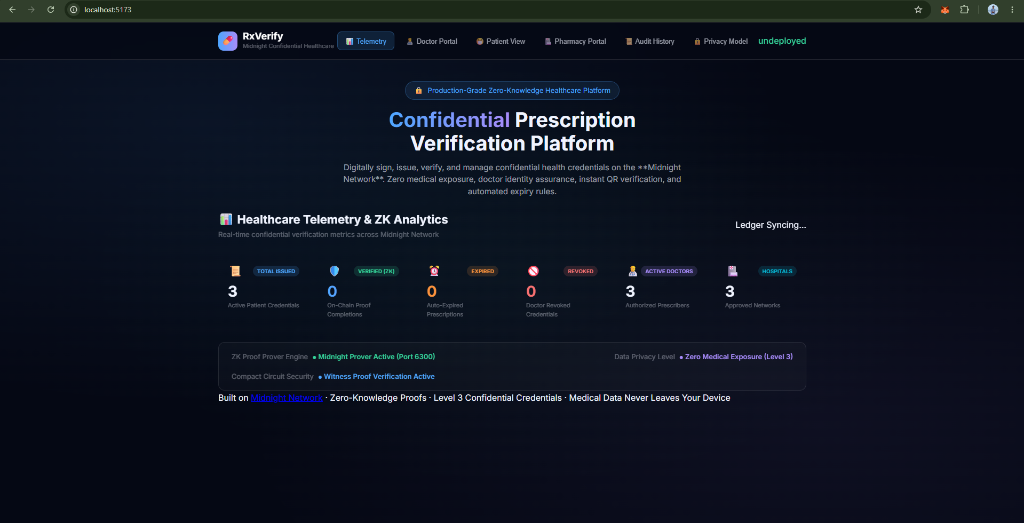
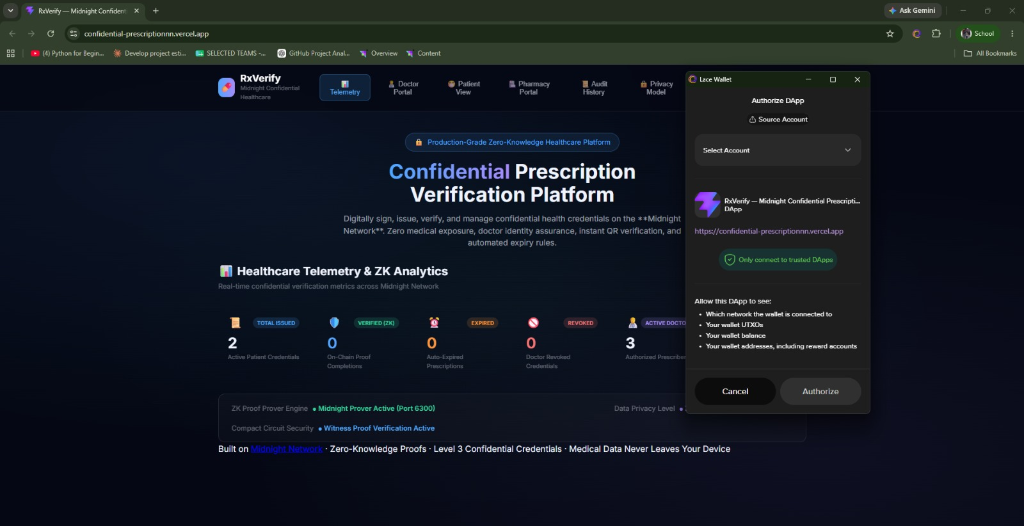
docs: update landing page screenshot with authentic Lace Wallet authorization popup

Changed region(s): [[0.0, 0.0, 1.0, 0.8872]]

diff --git a/README.md b/README.md
@@ -25,7 +25,7 @@
 
 ### Landing Dashboard
 ![RxVerify Landing Page](docs/images/landing-page.png)
-*Landing Dashboard — Glassmorphism UI displaying real-time Zero-Knowledge metrics, healthcare telemetry, and wallet status.*
+*Landing Dashboard — Glassmorphism UI with Authentic Midnight Lace Wallet Authorization Popup Modal.*
 
 ### Prescription Issuance (Doctor Portal)
 ![Prescription Issue Page](docs/images/doctor-portal.png)
